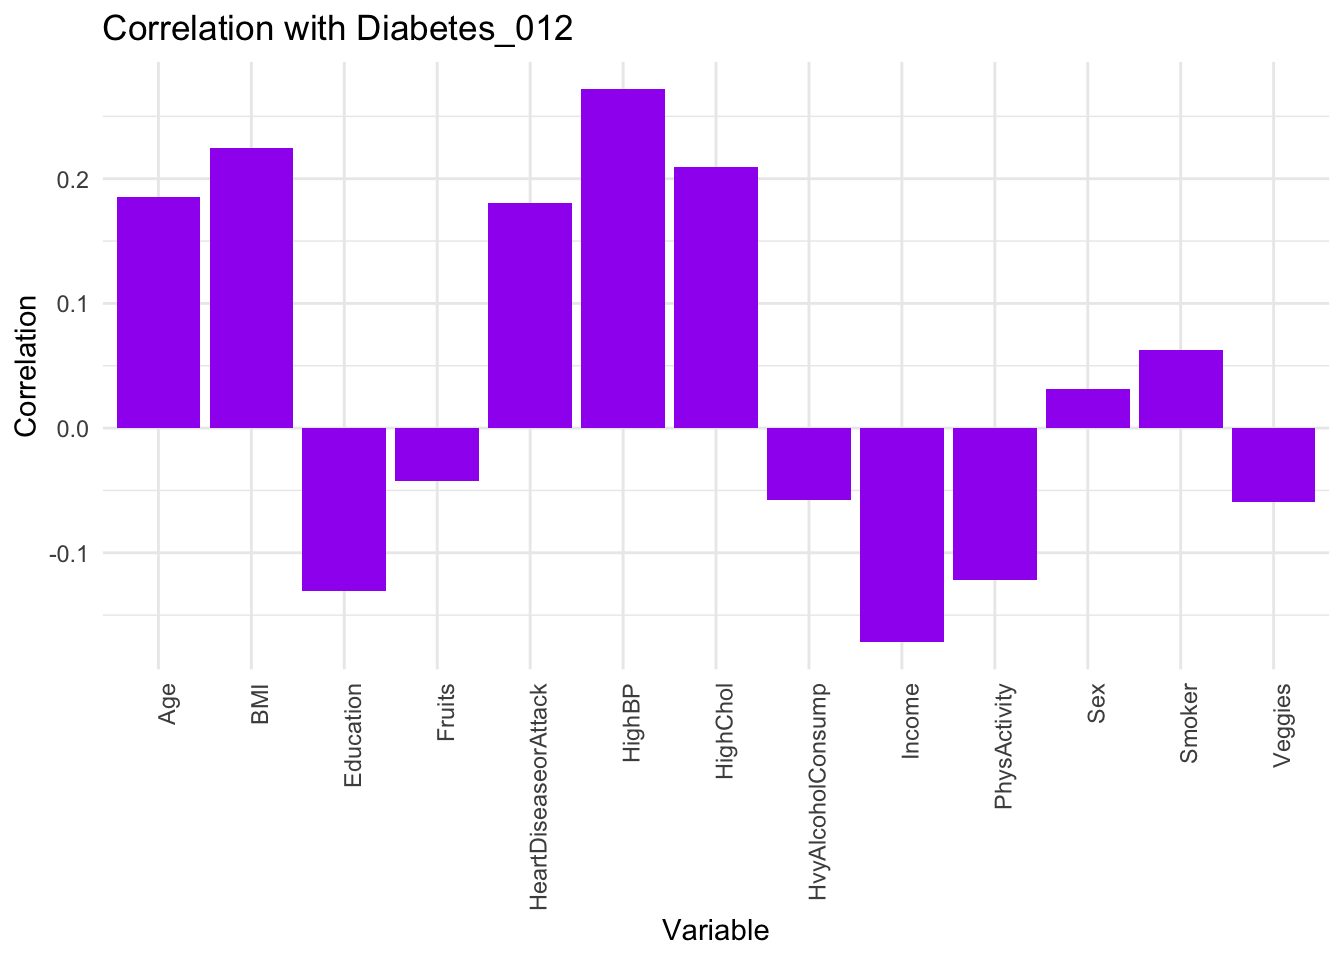
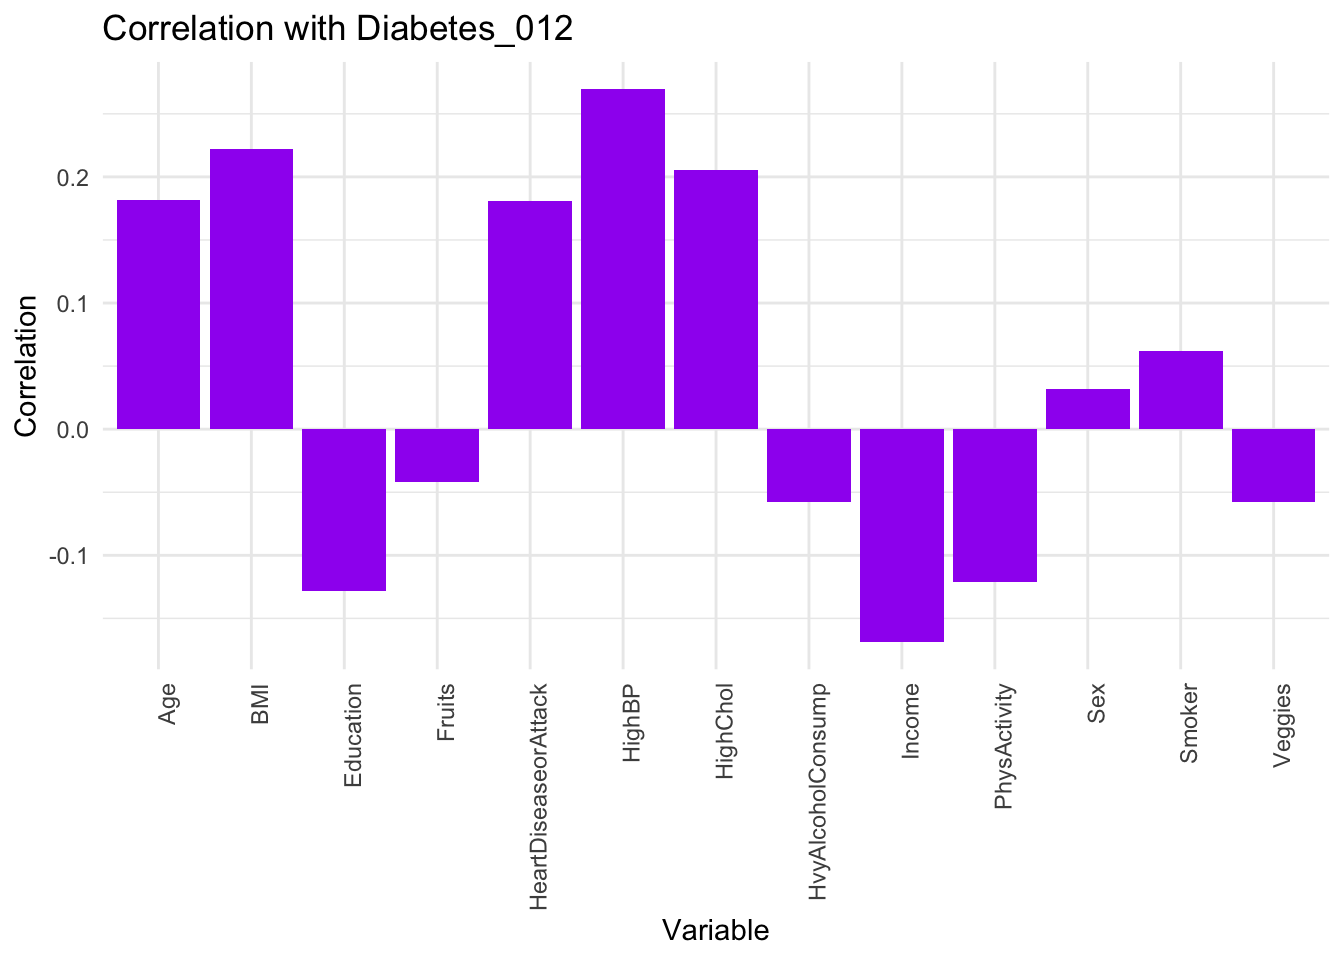
edit the dataset for statistical analysis

Changed region(s): [[0.0312, 0.5625, 0.0625, 0.5938], [0.0312, 0.4375, 0.0625, 0.4688]]

diff --git a/statisticalanaylsis.html b/statisticalanaylsis.html
@@ -401,10 +401,13 @@ predictive model.</p>
   diabetes_data01 |&gt;
   select(Diabetes_012,HighBP,HighChol, BMI, Smoker, 
          HeartDiseaseorAttack, Sex,Income, Education, 
-         PhysActivity, Fruits, Veggies, Age, HvyAlcoholConsump)
+         PhysActivity, Fruits, Veggies, Age, HvyAlcoholConsump)|&gt;
+         filter(Diabetes_012 == &#39;2&#39; | Diabetes_012 == &#39;0&#39;) |&gt;
+  mutate(Diabetes_012=ifelse(Diabetes_012==&quot;2&quot;,&quot;1&quot;,Diabetes_012))|&gt;
+  mutate(Diabetes_012=as.numeric(Diabetes_012))
 
 diabetes_data01</code></pre>
-<pre><code>## # A tibble: 253,680 × 14
+<pre><code>## # A tibble: 249,049 × 14
 ##    Diabetes_012 HighBP HighChol   BMI Smoker HeartDiseaseorAttack   Sex Income
 ##           &lt;dbl&gt;  &lt;dbl&gt;    &lt;dbl&gt; &lt;dbl&gt;  &lt;dbl&gt;                &lt;dbl&gt; &lt;dbl&gt;  &lt;dbl&gt;
 ##  1            0      1        1    40      1                    0     0      3
@@ -415,9 +418,9 @@ diabetes_data01</code></pre>
 ##  6            0      1        1    25      1                    0     1      8
 ##  7            0      1        0    30      1                    0     0      7
 ##  8            0      1        1    25      1                    0     0      4
-##  9            2      1        1    30      1                    1     0      1
+##  9            1      1        1    30      1                    1     0      1
 ## 10            0      0        0    24      0                    0     1      3
-## # ℹ 253,670 more rows
+## # ℹ 249,039 more rows
 ## # ℹ 6 more variables: Education &lt;dbl&gt;, PhysActivity &lt;dbl&gt;, Fruits &lt;dbl&gt;,
 ## #   Veggies &lt;dbl&gt;, Age &lt;dbl&gt;, HvyAlcoholConsump &lt;dbl&gt;</code></pre>
 <div id="correlation-analysis-for-continuous-variables"
@@ -451,21 +454,21 @@ print(anova_results)</code></pre>
 <pre><code>## Analysis of Variance Table
 ## 
 ## Response: dependent_var
-##                          Df Sum Sq Mean Sq    F value    Pr(&gt;F)    
-## HighBP                    1   9121  9121.0 22241.5669 &lt; 2.2e-16 ***
-## HighChol                  1   2227  2226.9  5430.3372 &lt; 2.2e-16 ***
-## BMI                      83   4251    51.2   124.8835 &lt; 2.2e-16 ***
-## Smoker                    1    107   106.7   260.1201 &lt; 2.2e-16 ***
-## HeartDiseaseorAttack      1   1409  1408.6  3434.7828 &lt; 2.2e-16 ***
-## Sex                       1      2     1.6     3.9852    0.0459 *  
-## Income                    7   1177   168.1   409.8757 &lt; 2.2e-16 ***
-## Education                 5    132    26.3    64.1470 &lt; 2.2e-16 ***
-## PhysActivity              1    145   145.3   354.2420 &lt; 2.2e-16 ***
-## Fruits                    1      1     0.8     2.0050    0.1568    
-## Veggies                   1      7     6.7    16.3283 5.328e-05 ***
-## Age                      12    925    77.1   187.9796 &lt; 2.2e-16 ***
-## HvyAlcoholConsump         1    165   165.5   403.4858 &lt; 2.2e-16 ***
-## Residuals            253563 103983     0.4                         
+##                          Df  Sum Sq Mean Sq    F value    Pr(&gt;F)    
+## HighBP                    1  2199.9 2199.88 21396.9679 &lt; 2.2e-16 ***
+## HighChol                  1   523.8  523.83  5095.0035 &lt; 2.2e-16 ***
+## BMI                      82  1029.2   12.55   122.0743 &lt; 2.2e-16 ***
+## Smoker                    1    25.7   25.75   250.4334 &lt; 2.2e-16 ***
+## HeartDiseaseorAttack      1   355.5  355.51  3457.7952 &lt; 2.2e-16 ***
+## Sex                       1     0.6    0.60     5.7897   0.01612 *  
+## Income                    7   275.5   39.36   382.7997 &lt; 2.2e-16 ***
+## Education                 5    30.9    6.18    60.0628 &lt; 2.2e-16 ***
+## PhysActivity              1    35.7   35.67   346.9600 &lt; 2.2e-16 ***
+## Fruits                    1     0.2    0.17     1.6976   0.19261    
+## Veggies                   1     1.6    1.62    15.7919 7.073e-05 ***
+## Age                      12   216.3   18.02   175.2859 &lt; 2.2e-16 ***
+## HvyAlcoholConsump         1    41.2   41.22   400.8931 &lt; 2.2e-16 ***
+## Residuals            248933 25593.5    0.10                         
 ## ---
 ## Signif. codes:  0 &#39;***&#39; 0.001 &#39;**&#39; 0.01 &#39;*&#39; 0.05 &#39;.&#39; 0.1 &#39; &#39; 1</code></pre>
 </div>
@@ -484,9 +487,7 @@ for (var in names(independent_vars)) {
   # Store the results
   chi_square_results &lt;- rbind(chi_square_results, data.frame(Variable = var, ChiSquare = test$statistic, PValue = test$p.value))
 }</code></pre>
-<pre><code>## Warning in chisq.test(table): Chi-squared approximation may be incorrect
-
-## Warning in chisq.test(table): Chi-squared approximation may be incorrect</code></pre>
+<pre><code>## Warning in chisq.test(table): Chi-squared approximation may be incorrect</code></pre>
 <pre class="r"><code># Order results by p-value
 chi_square_results &lt;- chi_square_results %&gt;%
   arrange(PValue)
@@ -494,19 +495,19 @@ chi_square_results &lt;- chi_square_results %&gt;%
 # Print the results
 print(chi_square_results)</code></pre>
 <pre><code>##                         Variable  ChiSquare        PValue
-## X-squared                 HighBP 18794.6441  0.000000e+00
-## X-squared1              HighChol 11258.9204  0.000000e+00
-## X-squared2                   BMI 16040.9372  0.000000e+00
-## X-squared4  HeartDiseaseorAttack  8244.8891  0.000000e+00
-## X-squared6                Income  7816.4629  0.000000e+00
-## X-squared7             Education  4560.6403  0.000000e+00
-## X-squared8          PhysActivity  3789.3015  0.000000e+00
-## X-squared11                  Age  9641.3765  0.000000e+00
-## X-squared3                Smoker  1010.5118 3.716732e-220
-## X-squared10              Veggies   893.8419 8.029646e-195
-## X-squared12    HvyAlcoholConsump   850.3240 2.261930e-185
-## X-squared9                Fruits   454.3471  2.186703e-99
-## X-squared5                   Sex   250.8506  3.376679e-55</code></pre>
+## X-squared                 HighBP 18062.6213  0.000000e+00
+## X-squared1              HighChol 10535.0369  0.000000e+00
+## X-squared2                   BMI 15209.2925  0.000000e+00
+## X-squared4  HeartDiseaseorAttack  8180.5748  0.000000e+00
+## X-squared6                Income  7267.2494  0.000000e+00
+## X-squared7             Education  4201.2403  0.000000e+00
+## X-squared8          PhysActivity  3647.1812  0.000000e+00
+## X-squared11                  Age  9034.3397  0.000000e+00
+## X-squared3                Smoker   963.5432 1.509376e-211
+## X-squared10              Veggies   840.5152 8.386730e-185
+## X-squared12    HvyAlcoholConsump   835.3496 1.113358e-183
+## X-squared9                Fruits   433.5626  2.725768e-96
+## X-squared5                   Sex   250.5281  1.992061e-56</code></pre>
 </div>
 <div id="chi-square-for-independence-for-categorical-variables"
 class="section level4">

diff --git a/modeling.html b/modeling.html
@@ -13,7 +13,7 @@
 
 <title>Modeling</title>
 
-<script src="site_libs/header-attrs-2.25/header-attrs.js"></script>
+<script src="site_libs/header-attrs-2.24/header-attrs.js"></script>
 <script src="site_libs/jquery-3.6.0/jquery-3.6.0.min.js"></script>
 <meta name="viewport" content="width=device-width, initial-scale=1" />
 <link href="site_libs/bootstrap-3.3.5/css/flatly.min.css" rel="stylesheet" />
@@ -384,6 +384,77 @@ div.tocify {
 
 
 <p>Here is for modeling</p>
+<pre class="r"><code>diabetes_data01 &lt;- read_csv(&quot;data/Diabetes_012_data.csv&quot;)</code></pre>
+<pre><code>## Rows: 253680 Columns: 22
+## ── Column specification ────────────────────────────────────────────────────────
+## Delimiter: &quot;,&quot;
+## dbl (22): Diabetes_012, HighBP, HighChol, CholCheck, BMI, Smoker, Stroke, He...
+## 
+## ℹ Use `spec()` to retrieve the full column specification for this data.
+## ℹ Specify the column types or set `show_col_types = FALSE` to quiet this message.</code></pre>
+<pre class="r"><code>diabetes_data01 &lt;- 
+  diabetes_data01 |&gt;
+  select(Diabetes_012,HighBP,HighChol, BMI, Smoker, 
+         HeartDiseaseorAttack, Sex,Income, Education, 
+         PhysActivity, Fruits, Veggies, Age, HvyAlcoholConsump)|&gt;
+         filter(Diabetes_012 == &#39;2&#39; | Diabetes_012 == &#39;0&#39;) |&gt;
+  mutate(Diabetes_012=ifelse(Diabetes_012==&quot;2&quot;,&quot;1&quot;,Diabetes_012))|&gt;
+  mutate(Diabetes_012=as.numeric(Diabetes_012))
+
+diabetes_data01</code></pre>
+<pre><code>## # A tibble: 249,049 × 14
+##    Diabetes_012 HighBP HighChol   BMI Smoker HeartDiseaseorAttack   Sex Income
+##           &lt;dbl&gt;  &lt;dbl&gt;    &lt;dbl&gt; &lt;dbl&gt;  &lt;dbl&gt;                &lt;dbl&gt; &lt;dbl&gt;  &lt;dbl&gt;
+##  1            0      1        1    40      1                    0     0      3
+##  2            0      0        0    25      1                    0     0      1
+##  3            0      1        1    28      0                    0     0      8
+##  4            0      1        0    27      0                    0     0      6
+##  5            0      1        1    24      0                    0     0      4
+##  6            0      1        1    25      1                    0     1      8
+##  7            0      1        0    30      1                    0     0      7
+##  8            0      1        1    25      1                    0     0      4
+##  9            1      1        1    30      1                    1     0      1
+## 10            0      0        0    24      0                    0     1      3
+## # ℹ 249,039 more rows
+## # ℹ 6 more variables: Education &lt;dbl&gt;, PhysActivity &lt;dbl&gt;, Fruits &lt;dbl&gt;,
+## #   Veggies &lt;dbl&gt;, Age &lt;dbl&gt;, HvyAlcoholConsump &lt;dbl&gt;</code></pre>
+<div id="modeling-with-logistic-regression" class="section level4">
+<h4>Modeling with Logistic Regression</h4>
+<pre class="r"><code>model &lt;- glm(Diabetes_012 ~ HighBP + HighChol + BMI + Smoker + HeartDiseaseorAttack + Sex + Income + Education + PhysActivity + Fruits + Veggies + Age + HvyAlcoholConsump, data = diabetes_data01)
+summary(model)</code></pre>
+<pre><code>## 
+## Call:
+## glm(formula = Diabetes_012 ~ HighBP + HighChol + BMI + Smoker + 
+##     HeartDiseaseorAttack + Sex + Income + Education + PhysActivity + 
+##     Fruits + Veggies + Age + HvyAlcoholConsump, data = diabetes_data01)
+## 
+## Coefficients:
+##                        Estimate Std. Error t value Pr(&gt;|t|)    
+## (Intercept)          -0.1025278  0.0054521 -18.805  &lt; 2e-16 ***
+## HighBP                0.0967330  0.0014866  65.071  &lt; 2e-16 ***
+## HighChol              0.0689606  0.0014083  48.968  &lt; 2e-16 ***
+## BMI                   0.0085509  0.0001026  83.325  &lt; 2e-16 ***
+## Smoker                0.0021223  0.0013509   1.571 0.116190    
+## HeartDiseaseorAttack  0.1065688  0.0023420  45.504  &lt; 2e-16 ***
+## Sex                   0.0136585  0.0013401  10.192  &lt; 2e-16 ***
+## Income               -0.0134594  0.0003621 -37.168  &lt; 2e-16 ***
+## Education            -0.0081699  0.0007507 -10.883  &lt; 2e-16 ***
+## PhysActivity         -0.0286484  0.0015888 -18.031  &lt; 2e-16 ***
+## Fruits               -0.0035725  0.0014132  -2.528 0.011474 *  
+## Veggies              -0.0065478  0.0017429  -3.757 0.000172 ***
+## Age                   0.0088140  0.0002364  37.281  &lt; 2e-16 ***
+## HvyAlcoholConsump    -0.0577893  0.0028294 -20.424  &lt; 2e-16 ***
+## ---
+## Signif. codes:  0 &#39;***&#39; 0.001 &#39;**&#39; 0.01 &#39;*&#39; 0.05 &#39;.&#39; 0.1 &#39; &#39; 1
+## 
+## (Dispersion parameter for gaussian family taken to be 0.1038457)
+## 
+##     Null deviance: 30330  on 249048  degrees of freedom
+## Residual deviance: 25861  on 249035  degrees of freedom
+## AIC: 142728
+## 
+## Number of Fisher Scoring iterations: 2</code></pre>
+</div>
 
 
 
